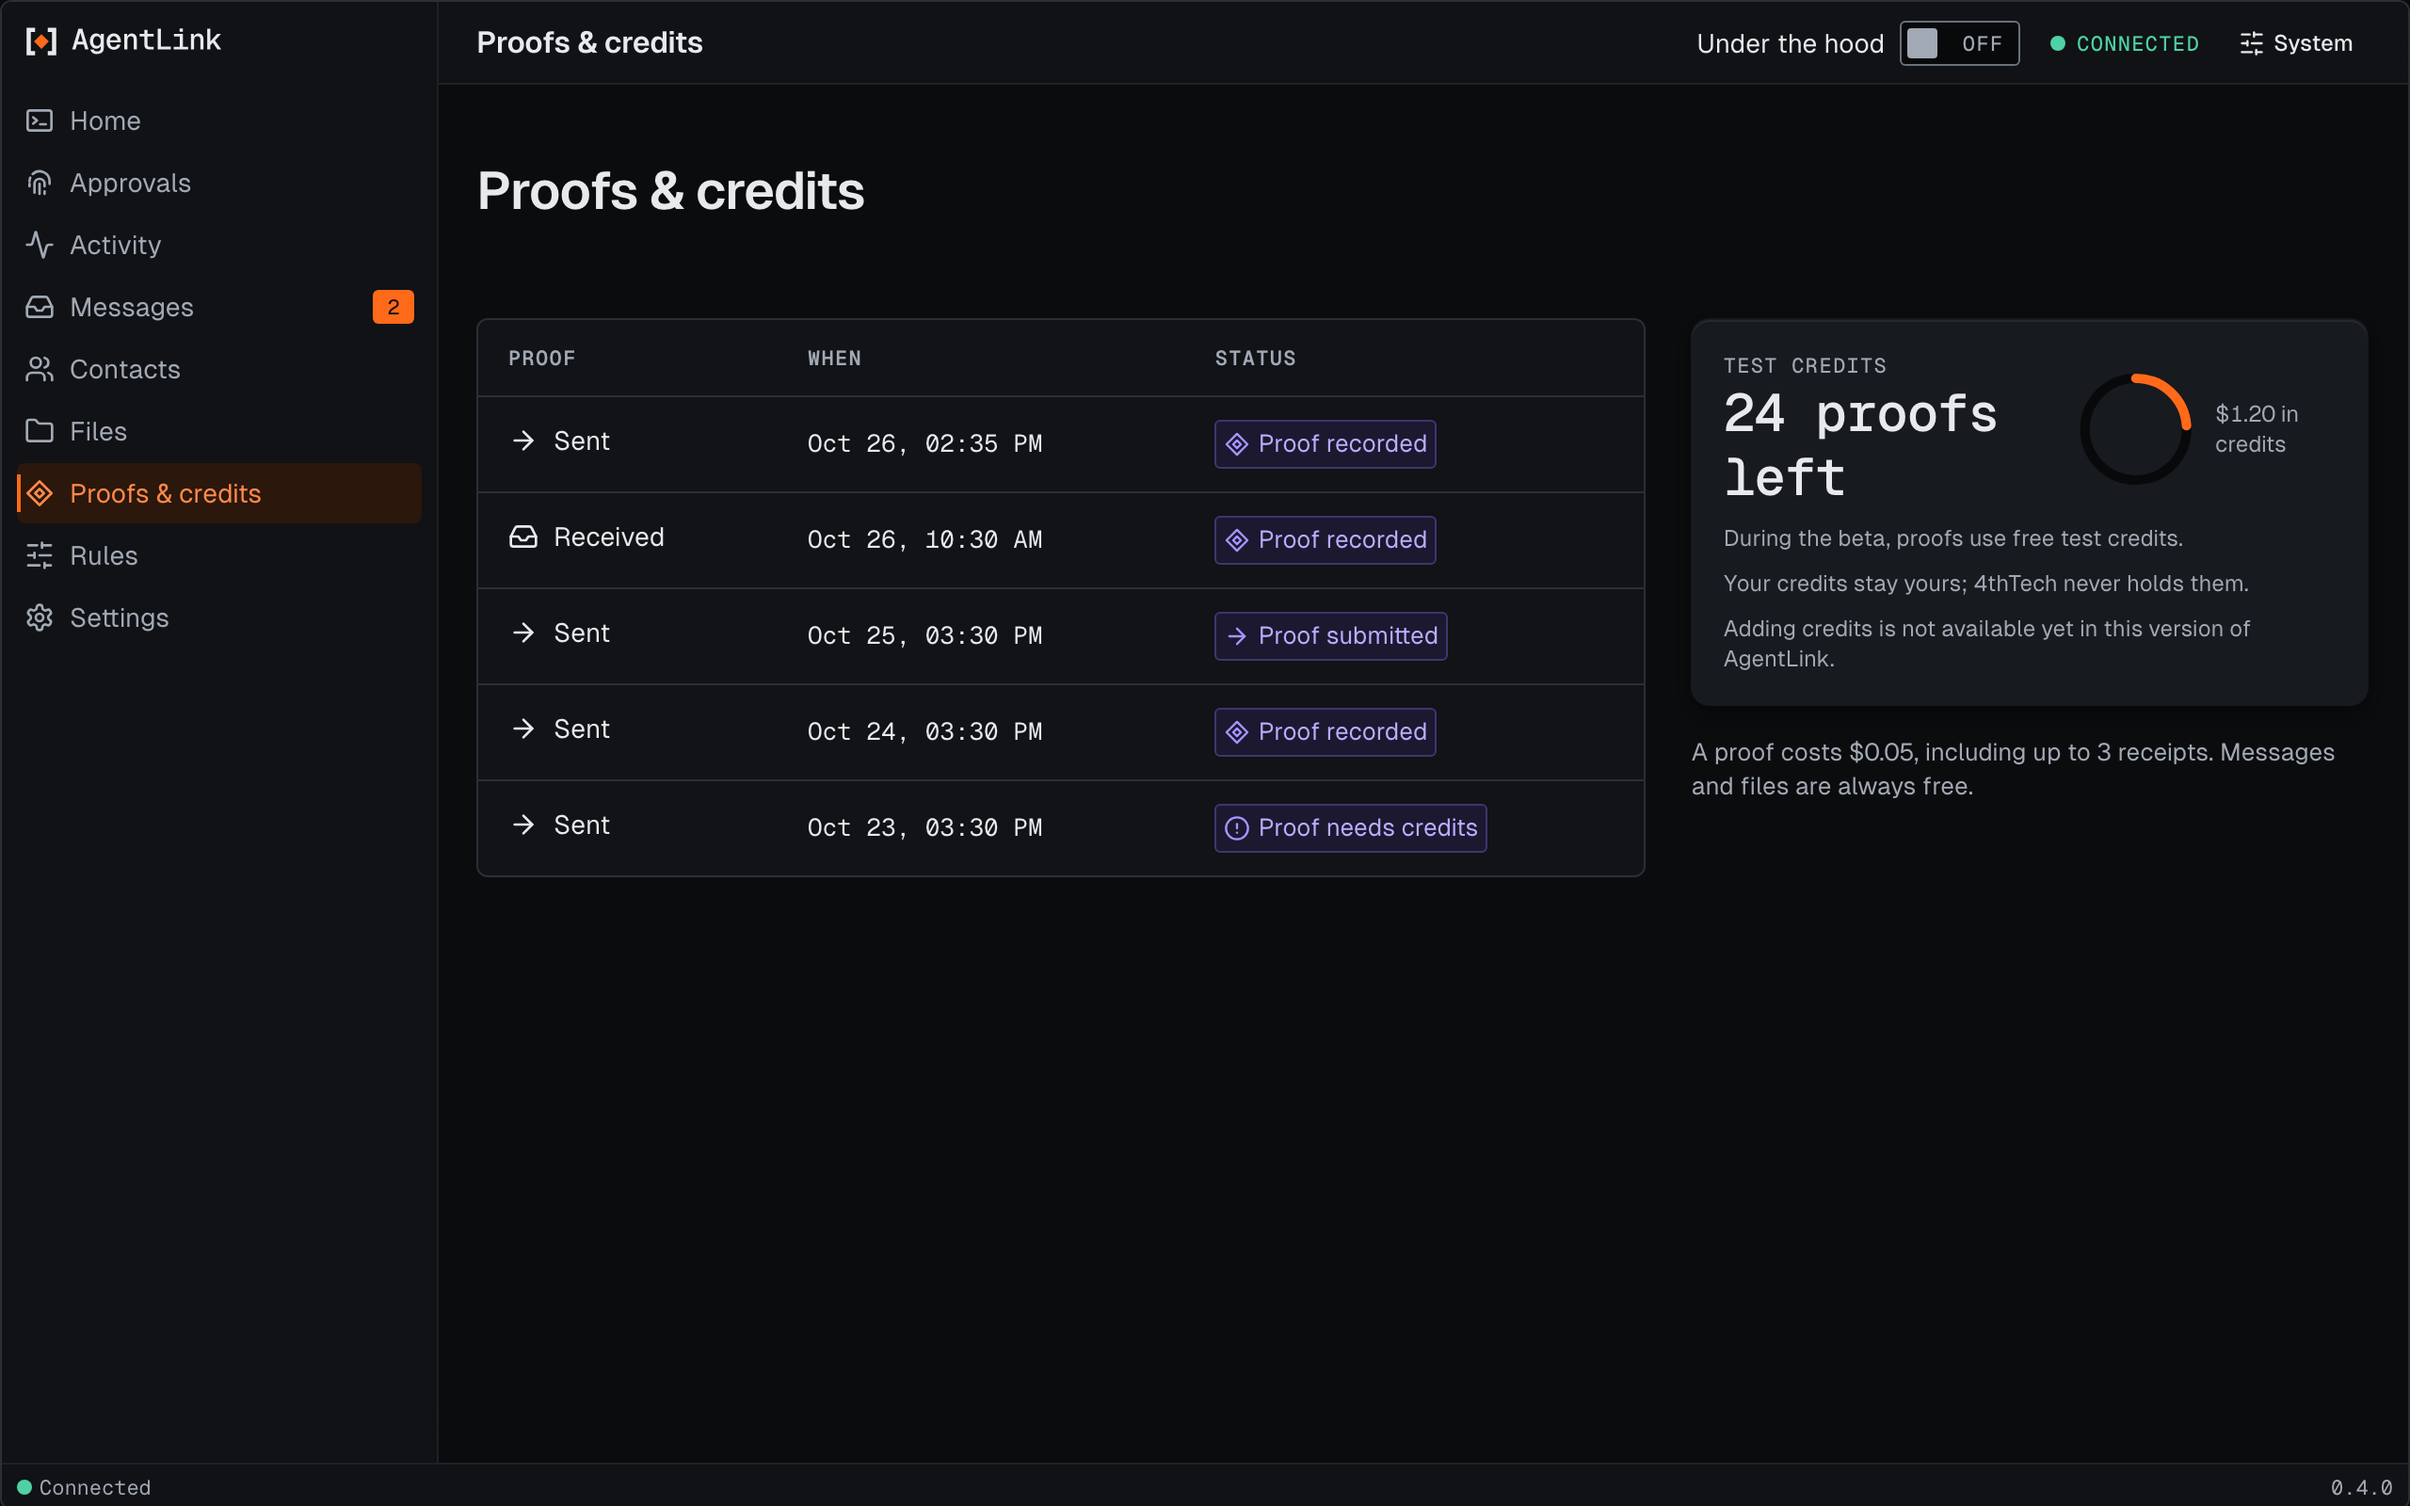
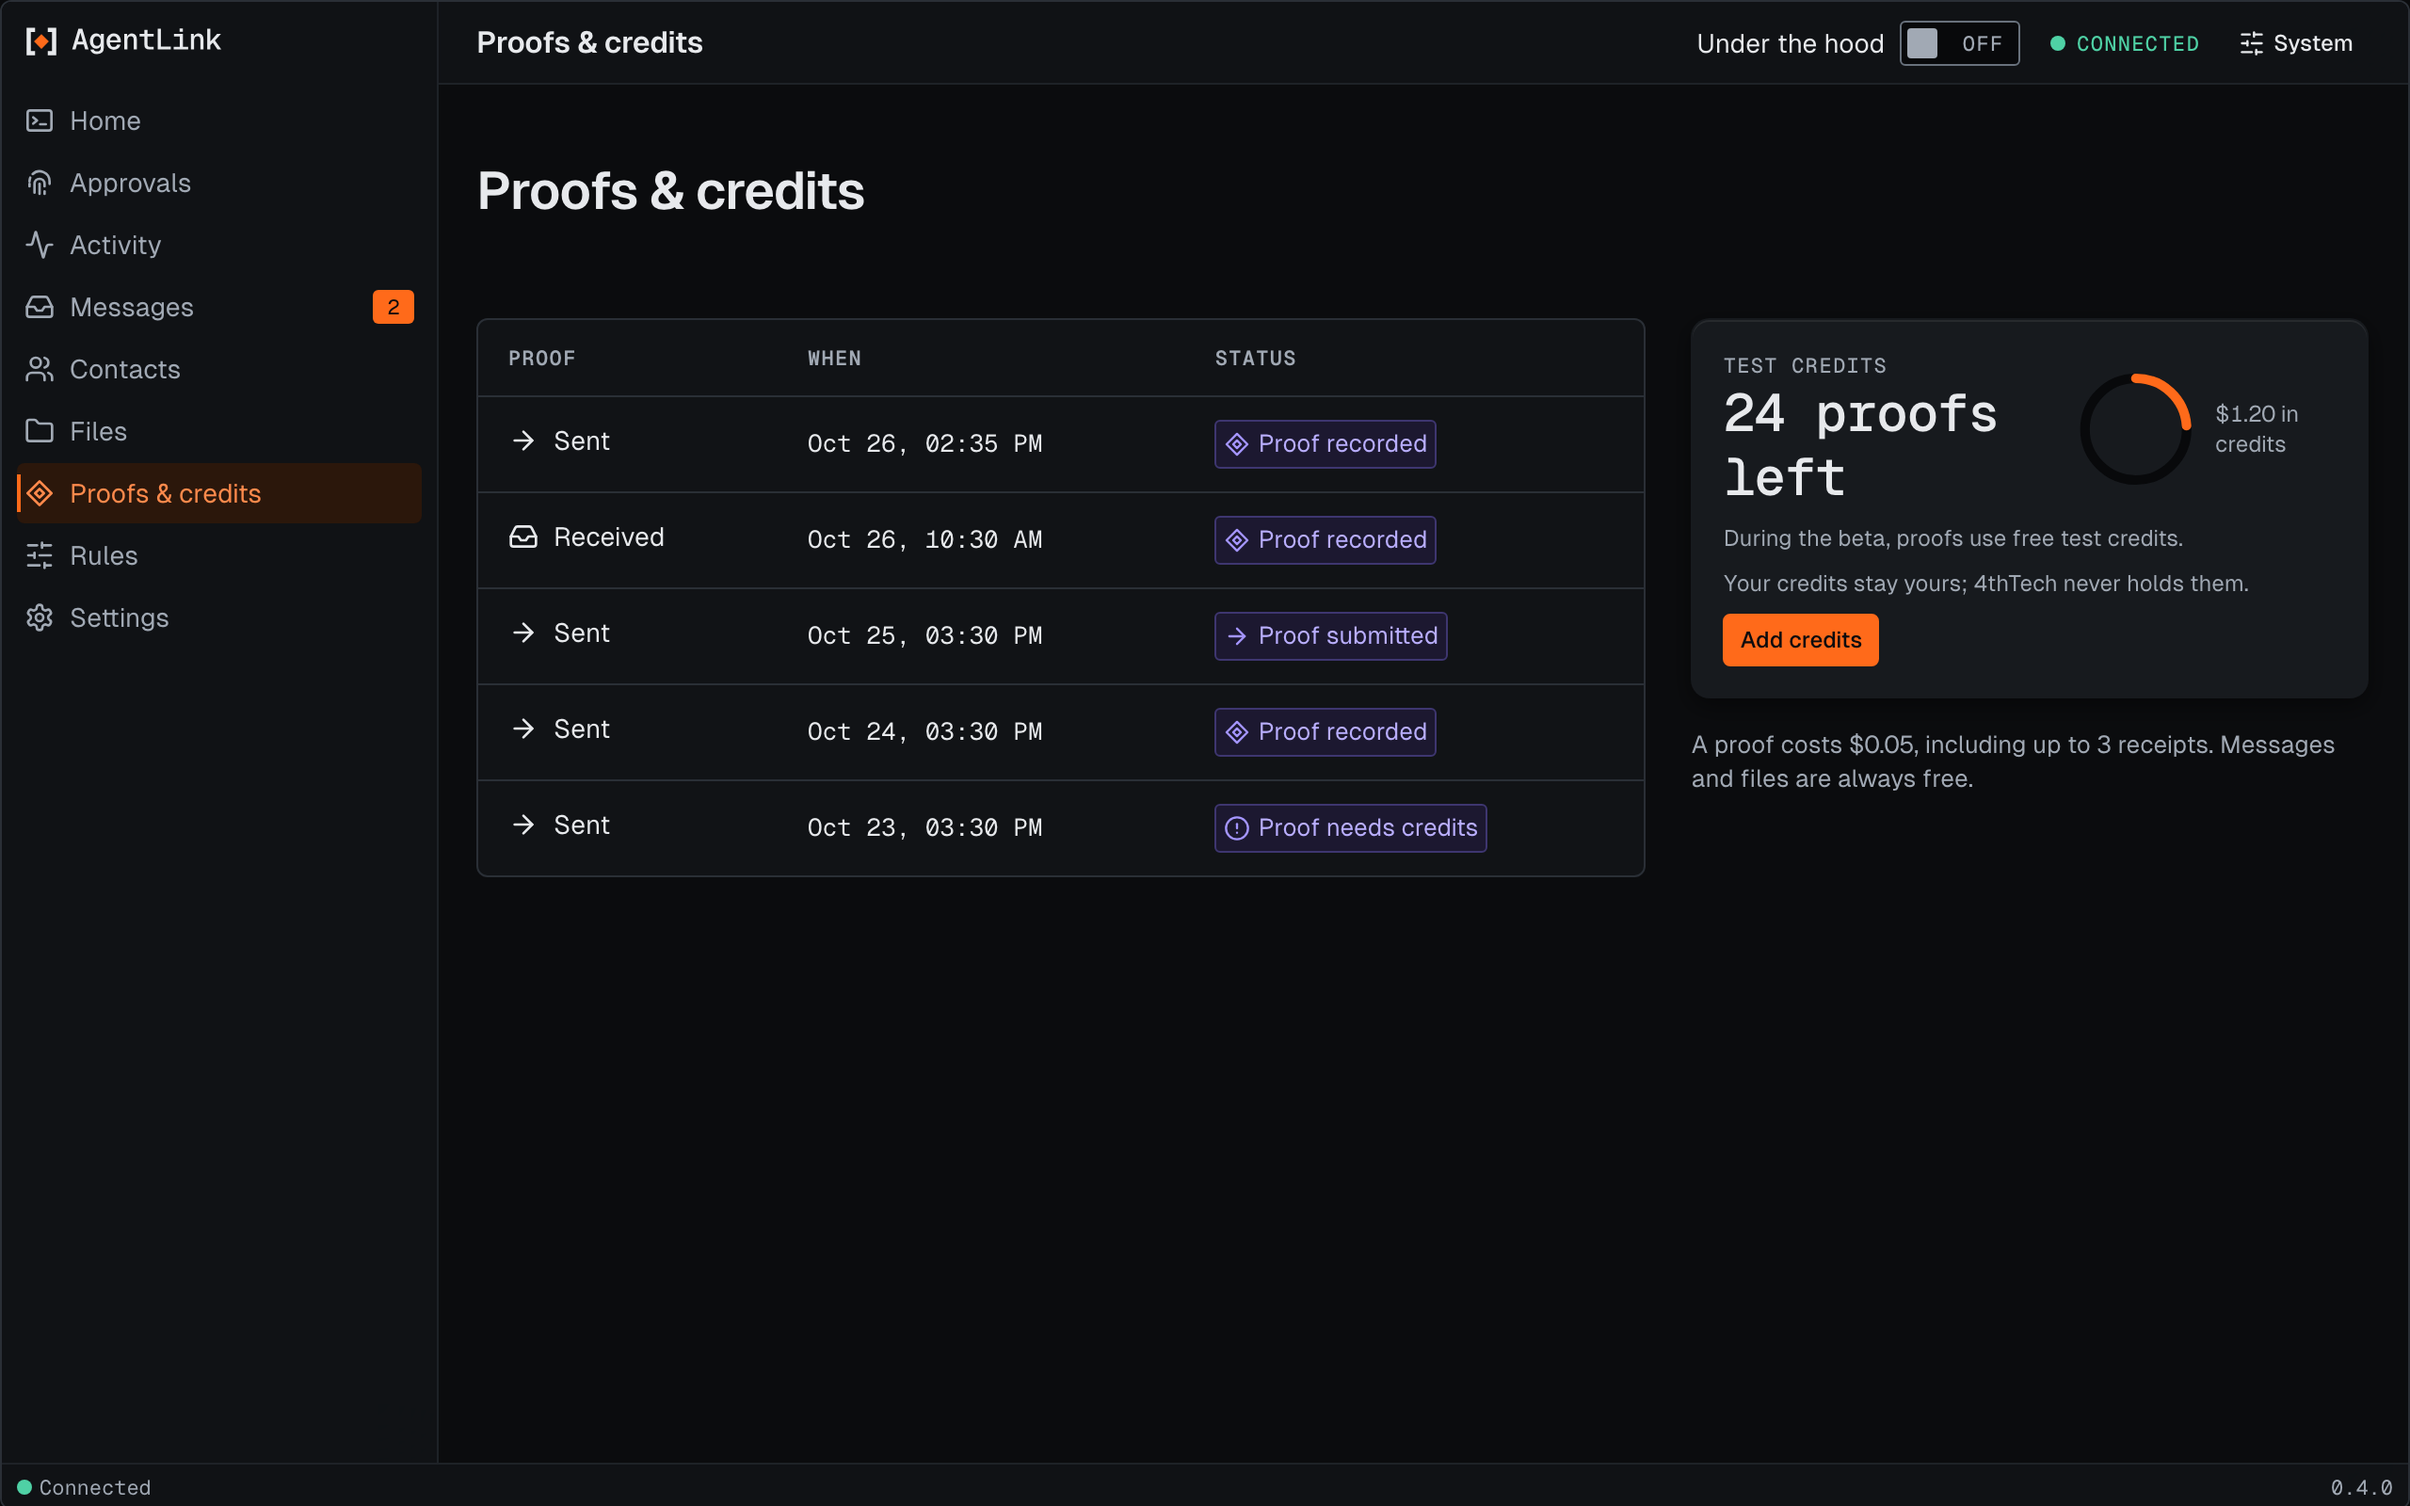
DOCS UI-REFRESH-p: review fixes (Home wording, approvals confirm, Add credits shot, Appearance labels)

Changed region(s): [[0.6875, 0.4062, 0.9688, 0.5312]]

diff --git a/docs-site/guide/local-app/approvals.md b/docs-site/guide/local-app/approvals.md
@@ -9,7 +9,7 @@ This is the page where requests wait for you. Your AI can ask, but only you can 
 Each card says who is asking, what it would do, what it costs, how long is left (the small ring and the minutes) and which of your rules made it ask. Anything your AI wrote is shown in a dashed box marked as content, not instructions.
 
 1. Choose **Approve**, **Deny** or **Later** on each card.
-2. Confirm with your passkey, or with your backup code if you have no passkey. Your AI can't do this for you.
+2. Confirm with your passkey, or with your backup code. The backup code is always offered, whether or not you have a passkey. Your AI can't do this for you.
 3. A short "done" note tells you it went through.
 
 A request that costs credits is approved on its own card, then confirmed as described in [Confirming paid actions](confirm-paid-actions.md).

diff --git a/docs-site/guide/everyday-use/approvals.md b/docs-site/guide/everyday-use/approvals.md
@@ -24,7 +24,7 @@ Your agent carries on once you approve.
 
 ## The approval page
 
-When something needs your approval, AgentLink opens an approval page in your browser, and your agent shows you its link (it starts with `http://localhost`). The link is for you. Your agent cannot approve with it, and on the page you still confirm with your owner code.
+When something needs your approval, AgentLink opens an approval page in your browser, and your agent shows you its link (it starts with `http://localhost`). The link is for you. Your agent cannot approve with it, and on the page you still confirm with your passkey or your backup code.
 
 While the page is open, your agent waits briefly for your decision. You do not need to tell it "done". If the page does not open, use the `approve` command above.
 

diff --git a/docs-site/guide/local-app/appearance.md b/docs-site/guide/local-app/appearance.md
@@ -4,7 +4,9 @@
 
 **Settings › Appearance** holds a few choices about how the app looks. They are kept in this browser only and are never sent anywhere.
 
-<figure><img src="../.gitbook/assets/local-appearance--choices.png" alt="The Appearance page with Theme, Reduce motion, Transparency and Show Under the hood by default."><figcaption><p>Appearance, with made-up data.</p></figcaption></figure>
+<figure><img src="../.gitbook/assets/local-appearance--choices.png" alt="The Appearance page with choices for the theme, reduced motion, transparency and showing Under the hood by default."><figcaption><p>Appearance, with made-up data.</p></figcaption></figure>
+
+The choices, in this order. The groups are not all labelled on the page yet.
 
 | Choice | Options |
 |---|---|

diff --git a/docs-site/guide/local-app/home.md b/docs-site/guide/local-app/home.md
@@ -2,7 +2,7 @@
 
 *Applies to the next release after 0.4.0 (not released yet). It is not in 0.4.0.*
 
-Home is the first page of the local app. It shows your agent at a glance, in five tiles. Nothing on it changes anything, and nothing leaves your computer.
+Home is the first item in the menu. It shows your agent at a glance, in five tiles. Nothing on it changes anything, and nothing leaves your computer.
 
 <figure><img src="../.gitbook/assets/local-home--overview.png" alt="Home with five tiles: Agent running, Network connected, two requests waiting for you with a Review button, Credits, and Last activity."><figcaption><p>Home, with made-up data. The tile with an orange edge needs you.</p></figcaption></figure>
 
